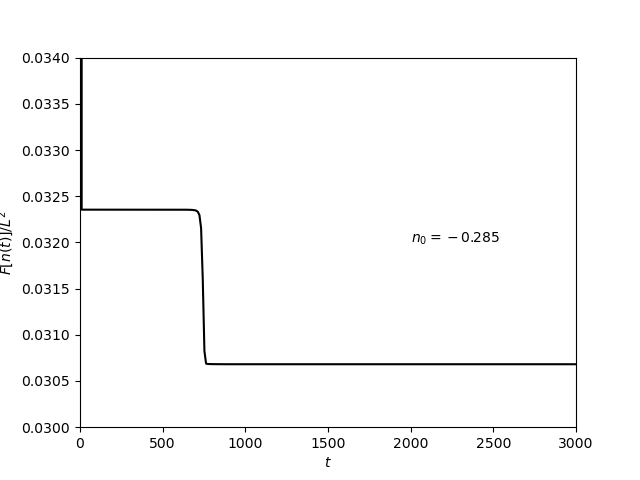
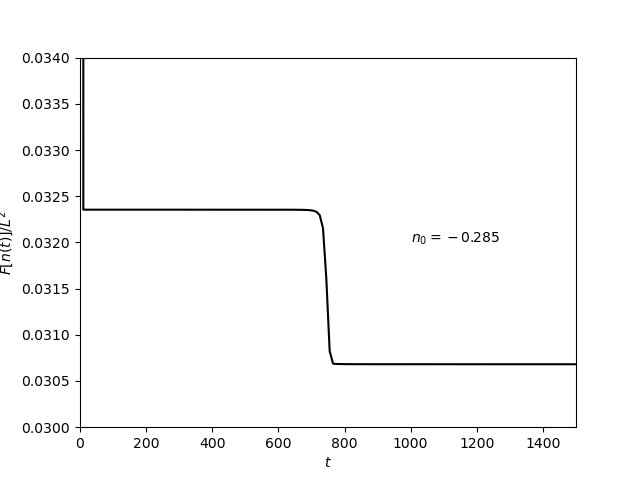
Making beautiful plots

diff --git a/phasefieldcrystal.py b/phasefieldcrystal.py
@@ -21,7 +21,7 @@ dx = x[1]-x[0]
 
 # The time step definition
 dt = 0.1
-T = 3000
+T = 1500
 Nsteps = int(T/dt)
 Nframes = Nsteps//100 #frames to the output
 
@@ -73,7 +73,7 @@ plt.imshow(n[-1],cmap='viridis', vmin=-0.6, vmax=0.4)
 plt.colorbar(label=r'$n(x,y)$', shrink=0.8)
 plt.title('$n_0=%.3f$'% n0)
 plt.savefig('pfc2d-crystal.png')
-plt.show()
+plt.close()
 
 # plot the total free-energy
 F = np.zeros(Nframes)
@@ -85,14 +85,15 @@ for i in range(t.size):
     lapn[:] = ifft2(-k2*n_hat).real
     laplapn[:] = ifft2(k2**2*n_hat).real
     F[i] = np.sum(n[i]*(lapn+0.5*laplapn)+0.5*(1+r)*n[i]**2 + 0.25*n[i]**4)*dx**2
-plt.xlim(0,3000)
+plt.xlim(0,T)
 plt.ylim(0.03,0.034)
 plt.plot(t,F/L**2,'k')
 plt.xlabel('$t$')
 plt.ylabel('$F[n(t)]/L^2$')
-plt.text(2000,0.032,'$n_0=-0.285$')
+plt.text(2*T/3,0.032,'$n_0=-0.285$')
 plt.savefig('pfc2d-freenergy-crystal.png')
-plt.show()
+plt.close()
+
 
 # Export animation in gif
 from matplotlib import animation
@@ -112,5 +113,5 @@ def animate(i):
 
 ani = animation.FuncAnimation(fig, animate, frames= Nframes,
                                interval = 50)
-ani.save('pfc2d-crystal.gif',writer='pillow',fps=10,dpi=100)
+ani.save('pfc2d-crystal.gif',writer='pillow',fps=20,dpi=100)
 
